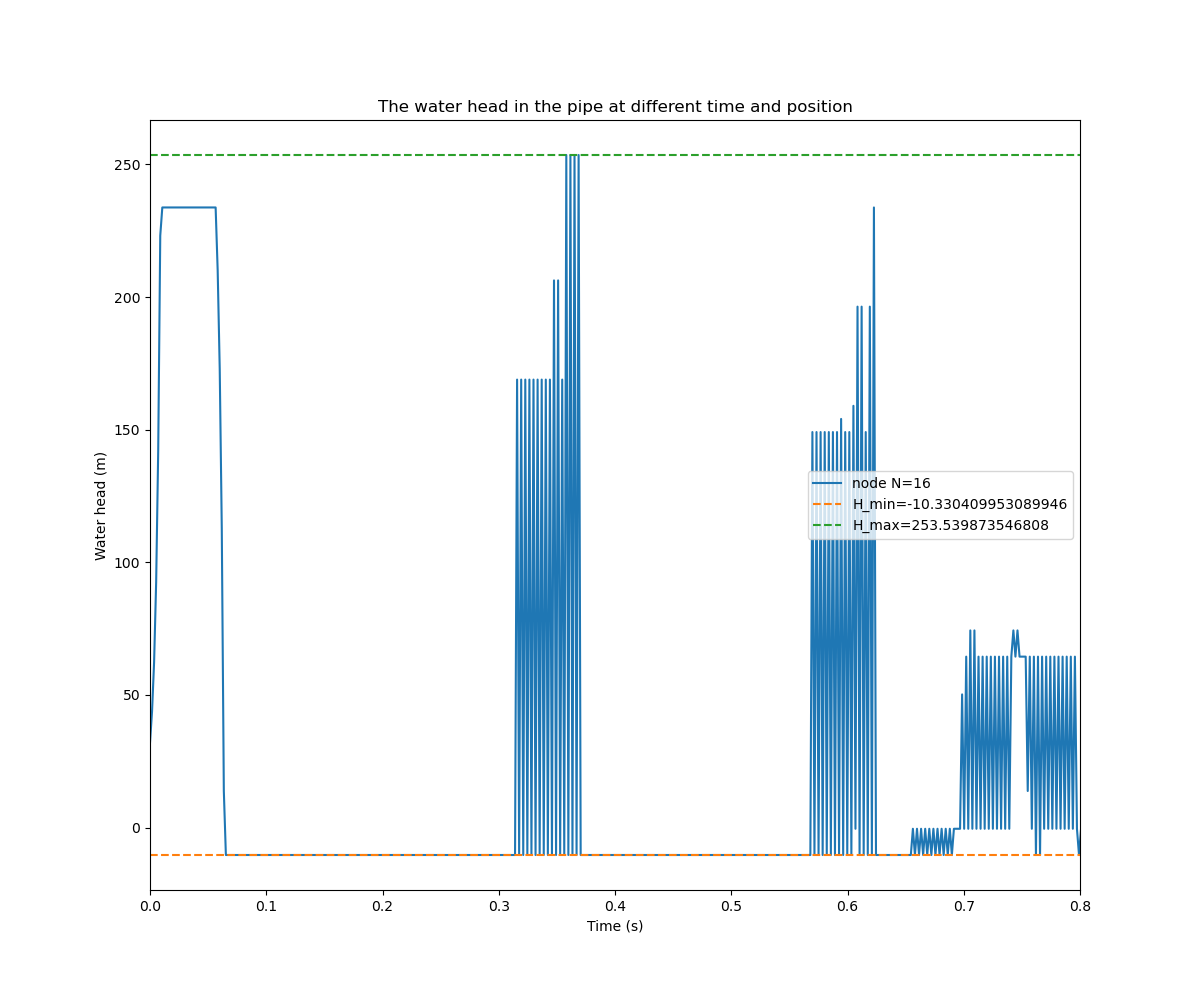
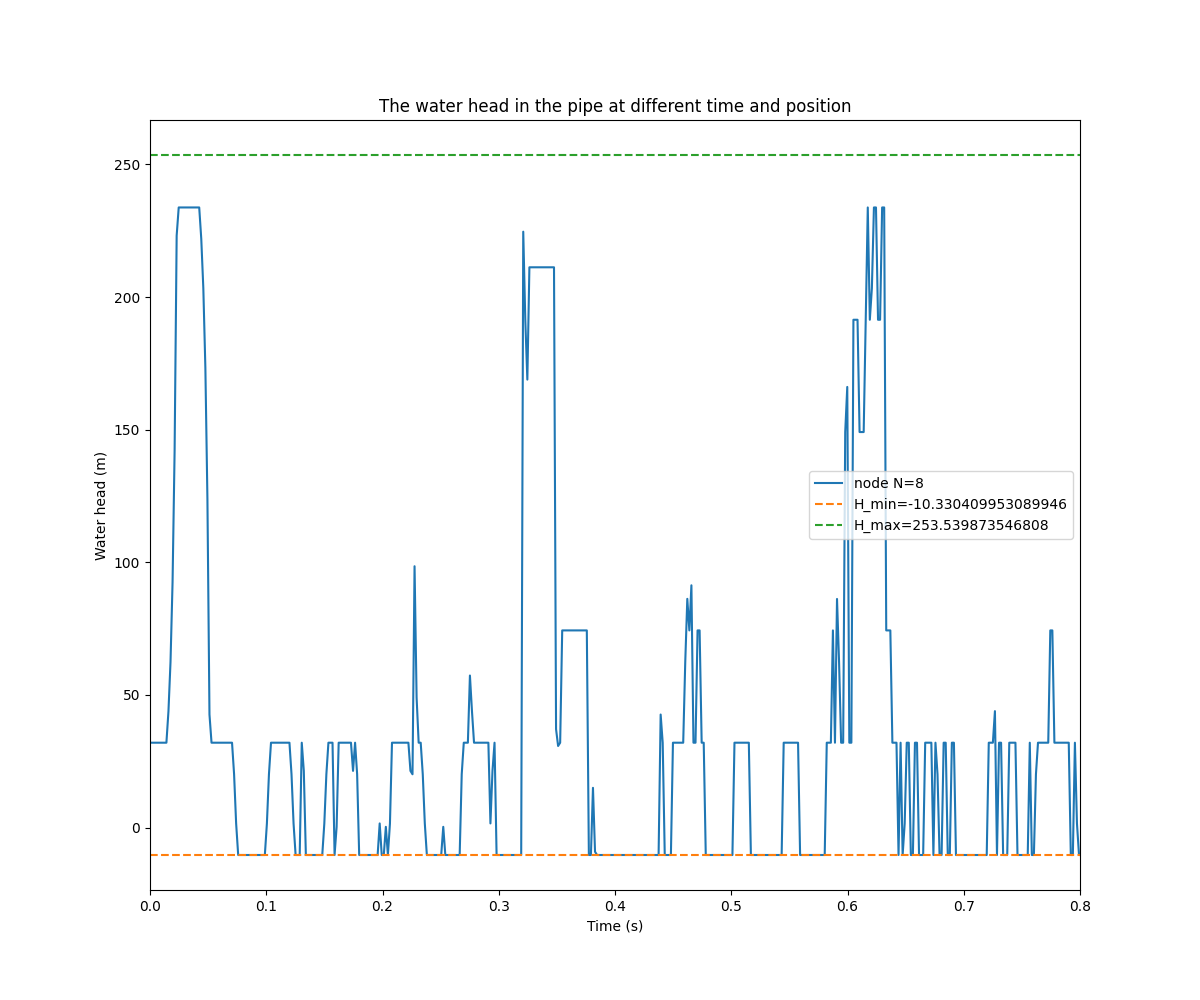
DVCM

diff --git a/自主研究探索课程（1）/Project/Code/DVCM_new.py b/自主研究探索课程（1）/Project/Code/DVCM_new.py
@@ -10,8 +10,8 @@ L = 37.23 # the length of the pipe
 a = 1319.0 # the speed of wave
 D = 0.0221 # the diameter of the pipe
 A = 1/4*np.pi*D**2 # the cross section area of the pipe
-f = 0.018 # the friction factor
-k = 0.009 # k is a coefficient of the valve
+f = 0.18 # the friction factor
+k = 0.0 # k is a coefficient of the valve
 g = 9.806 # the gravity
 t_c = 0.009 # the closure time of the valve
 rho = 1000 # the density of the water
@@ -19,11 +19,11 @@ H_min = -1.013e5/g/rho # the minimum water head at which the water will vaporize
 N = 16 # the number of nodes
 V_0 = 1.5 # the initial velocity of the water
 Q_0 = A*V_0 # the initial flow rate
-H_0 = 32.0 # the initial water head
+H_0 = 30.0 # the initial water head
 # The parameters of the iteration
 dx = L/N
 dt = dx/a
-print(f'dt={dt}')
+# print(f'dt={dt}')
 T = 25
 psi = 1.0 # the weighting factor
 N_t = int(T/dt)
@@ -61,7 +61,7 @@ for i in range(1,N_t+1):
                 Qu[i,j] = Q[i,j]
             if j > 0 and j < N:
                 C_P = H[i-1,j-1]+Q[i-1,j-1]*(B+S-R*abs(Q[i-1,j-1]))
-                C_M = H[i-1,j+1]-Q[i-1,j+1]*(B-S-R*abs(Q[i-1,j+1]))
+                C_M = H[i-1,j+1]-Qu[i-1,j+1]*(B-S-R*abs(Q[i-1,j+1]))
                 H[i,j] = (C_P+C_M)/2
                 Q[i,j] = (C_P-C_M)/(2*B)
                 Qu[i,j] = Q[i,j]
@@ -95,25 +95,23 @@ for i in range(1,N_t+1):
                 H[i,j] = H_min
                 Qu[i,j] = (-H[i,j]+H[i-1,j-1]+B*Q[i-1,j-1])/(B+R*abs(Q[i-1,j-1]))
                 Q[i,j] = (H[i,j]-H[i-1,j+1]+B*Qu[i-1,j+1])/(B+R*abs(Qu[i-1,j+1]))
-                # E[i,j] = E[i-1,j] + psi*(Q[i,j]*dt - Qu[i,j]*dt) + (1-psi)*(Q[i-1,j]*dt - Qu[i-1,j]*dt)
-                E[i,j] = E[i-2,j] + psi*(Q[i,j]*2*dt - Qu[i,j]*2*dt) + (1-psi)*(Q[i-2,j]*2*dt - Qu[i-2,j]*2*dt)
+                E[i,j] = E[i-1,j] + psi*(Q[i,j]*dt - Qu[i,j]*dt) + (1-psi)*(Q[i-1,j]*dt - Qu[i-1,j]*dt)
+                # E[i,j] = E[i-2,j] + psi*(Q[i,j]*2*dt - Qu[i,j]*2*dt) + (1-psi)*(Q[i-2,j]*2*dt - Qu[i-2,j]*2*dt)
                 if E[i, j] < 0:
                     E[i, j] = 0
                     C_P = H[i-1,j-1]+Q[i-1,j-1]*(B+S-R*abs(Q[i-1,j-1]))
-                    C_M = H[i-1,j+1]-Q[i-1,j+1]*(B-S-R*abs(Q[i-1,j+1]))
+                    C_M = H[i-1,j+1]-Qu[i-1,j+1]*(B-S-R*abs(Q[i-1,j+1]))
                     H[i,j] = (C_P+C_M)/2
                     Q[i,j] = (C_P-C_M)/(2*B)
                     Qu[i,j] = Q[i,j]
-                    if H[i,j] < H_min:
-                        H[i,j] = H_min
             if j == N:
                 H[i,j] = H_min
                 Qu[i,j] = (-H[i,j]+H[i-1,j-1]+B*Q[i-1,j-1])/(B+R*abs(Q[i-1,j-1]))
                 C_P = H[i-1,j-1]+Q[i-1,j-1]*(B+S-R*abs(Q[i-1,j-1]))
                 C_V = (Q_0*tau)**2/(2*H_0)
                 Q[i,j] = -B*C_V+np.sqrt((B*C_V)**2+2*C_V*C_P)
-                # E[i,j] = E[i-1,j] + psi*(Q[i,j]*dt - Qu[i,j]*dt) + (1-psi)*(Q[i-1,j]*dt - Qu[i-1,j]*dt)
-                E[i,j] = E[i-2,j] + psi*(Q[i,j]*2*dt - Qu[i,j]*2*dt) + (1-psi)*(Q[i-2,j]*2*dt - Qu[i-2,j]*2*dt)
+                E[i,j] = E[i-1,j] + psi*(Q[i,j]*dt - Qu[i,j]*dt) + (1-psi)*(Q[i-1,j]*dt - Qu[i-1,j]*dt)
+                # E[i,j] = E[i-2,j] + psi*(Q[i,j]*2*dt - Qu[i,j]*2*dt) + (1-psi)*(Q[i-2,j]*2*dt - Qu[i-2,j]*2*dt)
                 if E[i,j] < 0:
                     E[i,j] = 0
                     C_P = H[i-1,j-1]+Q[i-1,j-1]*(B+S-R*abs(Q[i-1,j-1]))
@@ -121,8 +119,6 @@ for i in range(1,N_t+1):
                     Q[i,j] = -B*C_V+np.sqrt((B*C_V)**2+2*C_V*C_P)
                     H[i,j] = C_P - B*Q[i,j]
                     Qu[i,j] = Q[i,j]
-                    if H[i,j] < H_min:
-                        H[i,j] = H_min
 
 
 
@@ -136,6 +132,24 @@ plt.figure(figsize=(12,10), dpi=100)
 
 for i in range(N+1):
     # if i%int(int(N)/2) == 0:
+    if i == int(N/2):
+    # if i == N:
+        plt.plot(np.arange(0,N_t+1)*dt,H[:,i],label=f'node N={i}')
+# Draw line H_min, and the maximum water head
+plt.plot(np.arange(0,N_t+1)*dt,np.ones(N_t+1)*H_min,label=f'H_min={H_min}',linestyle='--')
+plt.plot(np.arange(0,N_t+1)*dt,np.ones(N_t+1)*np.max(H[:,N]),label=f'H_max={np.max(H[:,N])}',linestyle='--') 
+plt.xlabel('Time (s)')
+plt.ylabel('Water head (m)')
+plt.title('The water head in the pipe at different time and position')
+plt.legend()
+plt.xlim(0,0.80)
+plt.savefig('./pic/DVCM_Waterhead_new_mid.png')
+# close the plot
+plt.close()
+
+plt.figure(figsize=(12,10), dpi=100)
+for i in range(N+1):
+    # if i%int(int(N)/2) == 0:
     # if i == int(N/2):
     if i == N:
         plt.plot(np.arange(0,N_t+1)*dt,H[:,i],label=f'node N={i}')
@@ -147,35 +161,37 @@ plt.ylabel('Water head (m)')
 plt.title('The water head in the pipe at different time and position')
 plt.legend()
 plt.xlim(0,0.80)
-plt.savefig('./pic/DVCM_Waterhead_new.png')
+plt.savefig('./pic/DVCM_Waterhead_new_end.png')
 # close the plot
 plt.close()
 
 # Plot the relationship between the flow rate and the time of all the nodes
-plt.figure(figsize=(12,10), dpi=100)
-for i in range(N+1):
-    # if i%int(int(N)/2) == 0:
-    if i == int(N/2):
-    # if i == N:
-        plt.plot(np.arange(0,N_t+1)*dt,Q[:,i],label=f'node N={i}')
-plt.xlabel('Time (s)')
-plt.ylabel('Flow rate (m^3/s)')
-plt.title('The flow rate in the pipe at different time and position')
-plt.xlim(0,0.80)
-plt.legend()
-plt.savefig('./pic/DVCM_Flowrate_new.png')
-plt.close()
-
-# Plot the bubble volumn
-plt.figure(figsize=(10,10), dpi=100)
-for i in range(0, N+1):
-    if i % int(N/5) == 0:
-        plt.plot(np.arange(0,N_t+1)*dt,E[:,i],label=f'node N={i}')
-plt.xlabel('Time (s)')
-plt.ylabel('Volumn m^3')
-plt.title('Bubble Volumn')
+# plt.figure(figsize=(12,10), dpi=100)
+# for i in range(N+1):
+#     # if i%int(int(N)/2) == 0:
+#     if i == int(N/2):
+#     # if i == N:
+#         plt.plot(np.arange(0,N_t+1)*dt,Q[:,i],label=f'node N={i}')
+# plt.xlabel('Time (s)')
+# plt.ylabel('Flow rate (m^3/s)')
+# plt.title('The flow rate in the pipe at different time and position')
 # plt.xlim(0,0.80)
-plt.legend()
-plt.savefig('./pic/DVCM_Bubble_new.png')
-# plt.show()
-plt.close()
+# plt.legend()
+# plt.savefig('./pic/DVCM_Flowrate_new.png')
+# plt.close()
+
+
+
+# # Plot the bubble volumn
+# plt.figure(figsize=(10,10), dpi=100)
+# for i in range(0, N+1):
+#     if i % int(N/5) == 0:
+#         plt.plot(np.arange(0,N_t+1)*dt,E[:,i],label=f'node N={i}')
+# plt.xlabel('Time (s)')
+# plt.ylabel('Volumn m^3')
+# plt.title('Bubble Volumn')
+# # plt.xlim(0,0.80)
+# plt.legend()
+# plt.savefig('./pic/DVCM_Bubble_new.png')
+# # plt.show()
+# plt.close()
